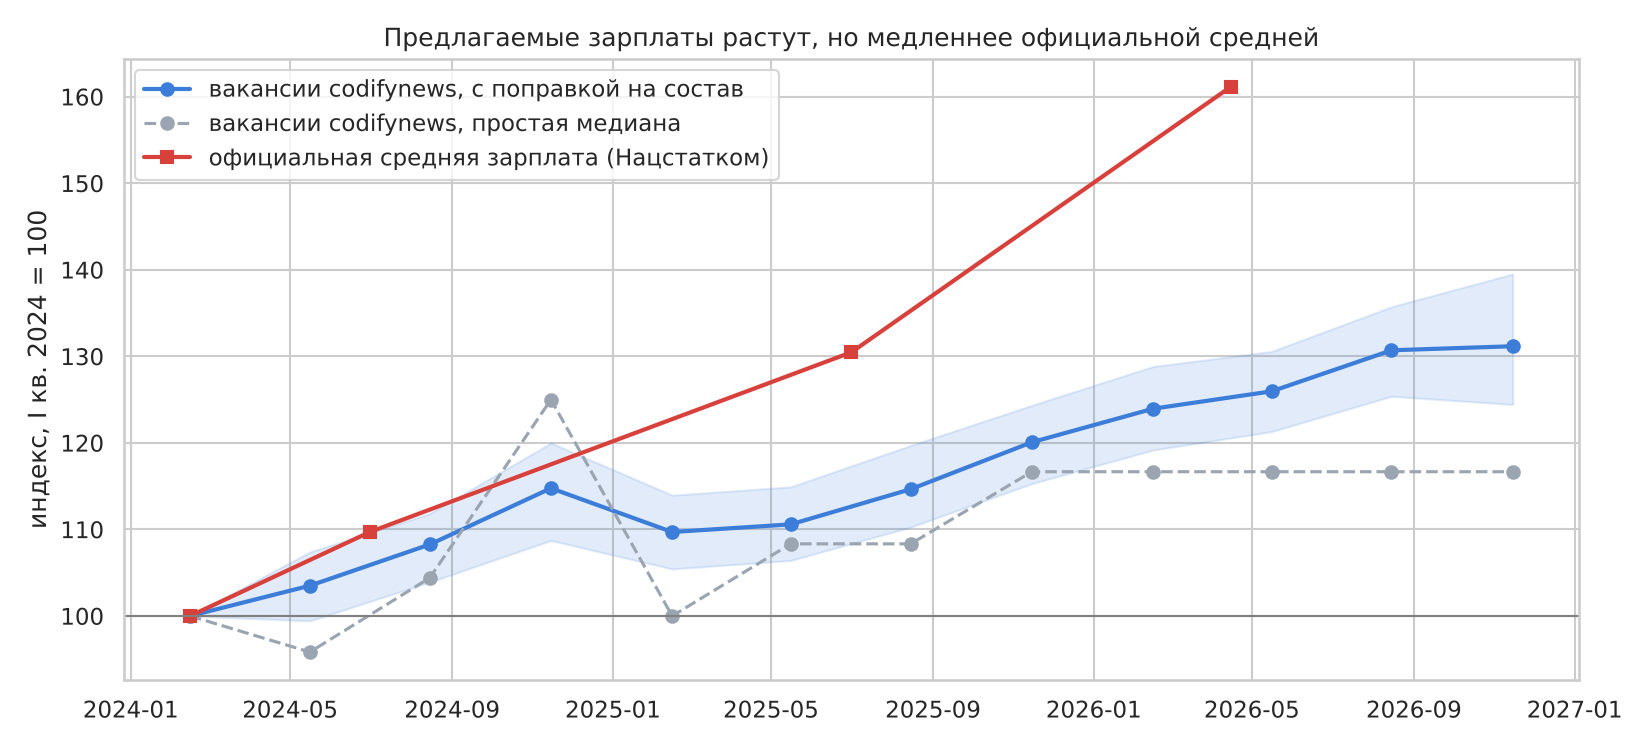
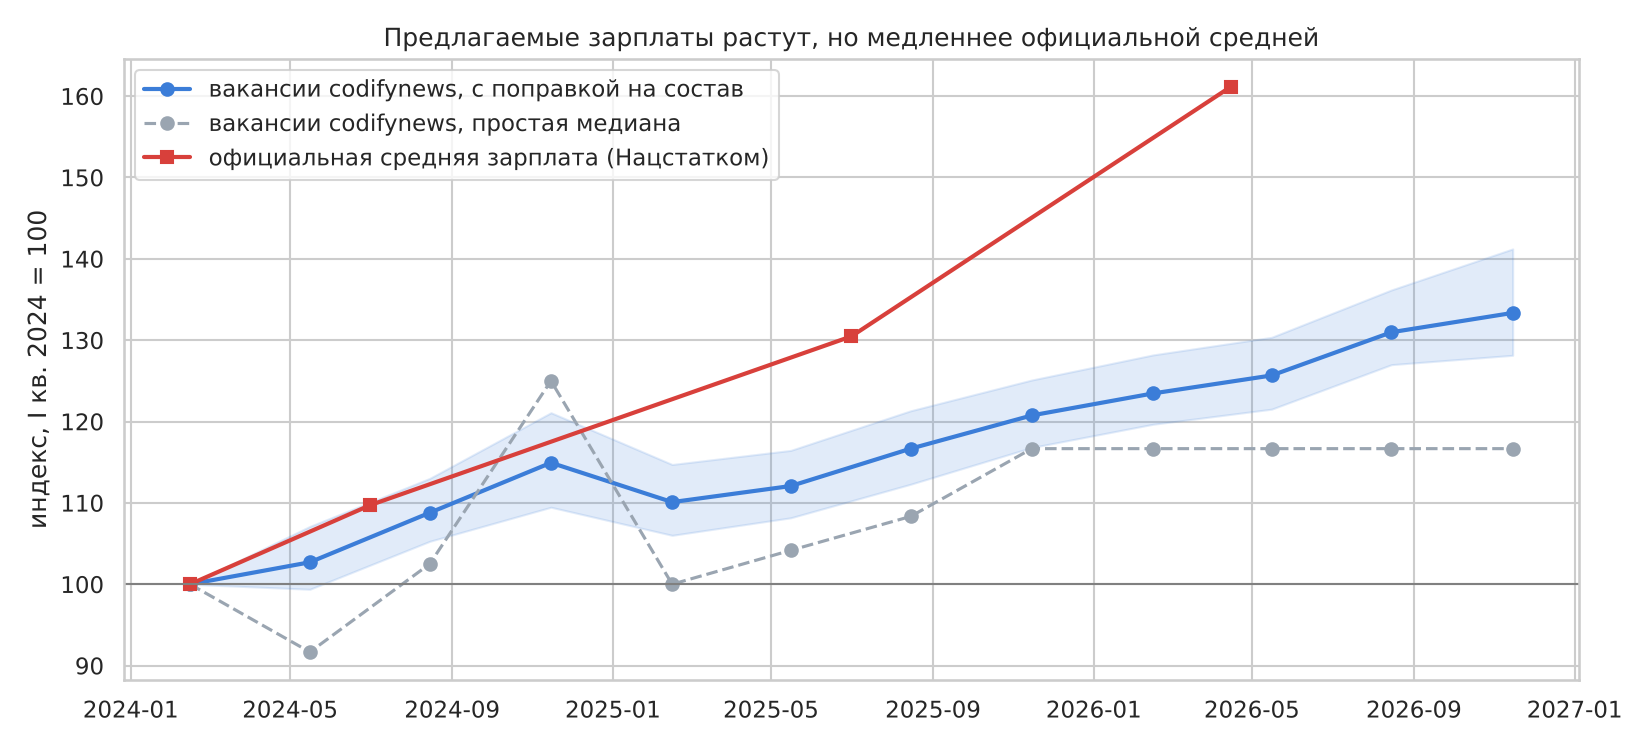
Market numbers from the master dataset

diff --git a/app.py b/app.py
@@ -69,7 +69,7 @@ def market_2026():
 def image(name, caption=None):
     path = os.path.join(FIG, name)
     if os.path.exists(path):
-        st.image(path, caption=caption, use_container_width=True)
+        st.image(path, caption=caption, width="stretch")
 
 
 S = summary()
@@ -105,7 +105,7 @@ with tab0:
         n = pd.crosstab(D["source"].rename("источник"), D["год"])
         k = pd.crosstab(D["source"].rename("источник"), D["год"], values=D["has_salary"], aggfunc="sum").fillna(0).astype(int)
         st.dataframe(n.astype(str).where(n == 0, n.astype(str) + " (" + k.astype(str) + ")").replace("0", "–"),
-                     use_container_width=True)
+                     width="stretch")
     with b:
         st.caption("Вакансий в месяц")
         m = D.groupby([D["published"].dt.to_period("M").astype(str), "source"]).size().unstack(fill_value=0)
@@ -145,7 +145,7 @@ with tab0:
         "published": "дата", "source": "источник", "name": "вакансия", "company": "работодатель", "sub_category": "профессия",
         "city": "город", "experience": "опыт", "compensation_from": "зарплата от", "compensation_to": "зарплата до",
         "compensation_currency": "валюта", "salary_kgs": "итог, сом/мес", "link": "ссылка"})
-    st.dataframe(show.head(2000), hide_index=True, use_container_width=True, height=480,
+    st.dataframe(show.head(2000), hide_index=True, width="stretch", height=480,
                  column_config={"дата": st.column_config.DatetimeColumn(format="YYYY-MM-DD"),
                                 "ссылка": st.column_config.LinkColumn(display_text="открыть"),
                                 "зарплата от": st.column_config.NumberColumn(format="%d"),
@@ -219,7 +219,7 @@ with tab2:
         ["+ смесь с LightGBM (финальная)", round(S["mae"]), round(S["median_error"]), "ноутбук 08"],
     ], columns=["модель", "MAE, сом", "медианная ошибка, сом", "комментарий"])
     st.dataframe(comp.style.format({"MAE, сом": "{:,.0f}", "медианная ошибка, сом": "{:,.0f}"}), hide_index=True,
-                 use_container_width=True)
+                 width="stretch")
     st.caption("Числа из ноутбуков 07 и 08; при повторном обучении LightGBM они могут сдвинуться на несколько сомов.")
     a, b = st.columns(2)
     with a:
@@ -234,7 +234,7 @@ with tab2:
     seg = t.groupby("уровень зарплаты", observed=True).agg(вакансий=("прогноз", "size"),
                                                            медианная_ошибка=("ошибка, сом", "median"),
                                                            в_80_диапазоне=("в 80% диапазоне", "mean"))
-    st.dataframe(seg.style.format({"медианная_ошибка": "{:,.0f}", "в_80_диапазоне": "{:.0%}"}), use_container_width=True)
+    st.dataframe(seg.style.format({"медианная_ошибка": "{:,.0f}", "в_80_диапазоне": "{:.0%}"}), width="stretch")
     st.write("Точнее всего для типичных зарплат 40–100 тыс. Редкие дорогие вакансии модель занижает, "
              "очень дешёвые завышает: она тянет крайние значения к середине.")
 
@@ -264,7 +264,7 @@ with tab3:
               "ошибка, %", "в 80% диапазоне"]]
     st.dataframe(show.style.format({"реальная зарплата": "{:,.0f}", "прогноз": "{:,.0f}", "80% от": "{:,.0f}",
                                     "80% до": "{:,.0f}", "ошибка, %": "{:+.0f}"}),
-                 hide_index=True, use_container_width=True, height=520,
+                 hide_index=True, width="stretch", height=520,
                  column_config={"ссылка": st.column_config.LinkColumn("пост", display_text="открыть")})
 
 # ------------------------------------------------------------------ 4. рынок
@@ -272,11 +272,11 @@ with tab4:
     c = st.columns(4)
     c[0].metric("Вакансий с 2024 года", f"{len(all_data()):,}".replace(",", " "))
     c[1].metric("Скрывают зарплату (2024)", "52%")
-    c[2].metric("Рост зарплат в вакансиях", "+31%", help="та же вакансия, I кв. 2024 → конец 2026, с поправкой на состав")
+    c[2].metric("Рост зарплат в вакансиях", "+33%", help="та же вакансия, I кв. 2024 → конец 2026, с поправкой на состав")
     c[3].metric("Официальная средняя зарплата", "+61%", help="Нацстатком: 34 046 → 54 864 сом")
     a, b = st.columns(2)
     with a:
-        image("market_08_index.png", "Та же вакансия подорожала на ~31%; официальная средняя выросла сильнее")
+        image("market_08_index.png", "Та же вакансия подорожала на ~33%; официальная средняя выросла сильнее")
         image("market_08_shares.png", "Доля скрытых зарплат и состав вакансий по кварталам (codifynews)")
     with b:
         image("market_08_professions.png", "Изменение зарплат по профессиям, 2024 → 2026")
